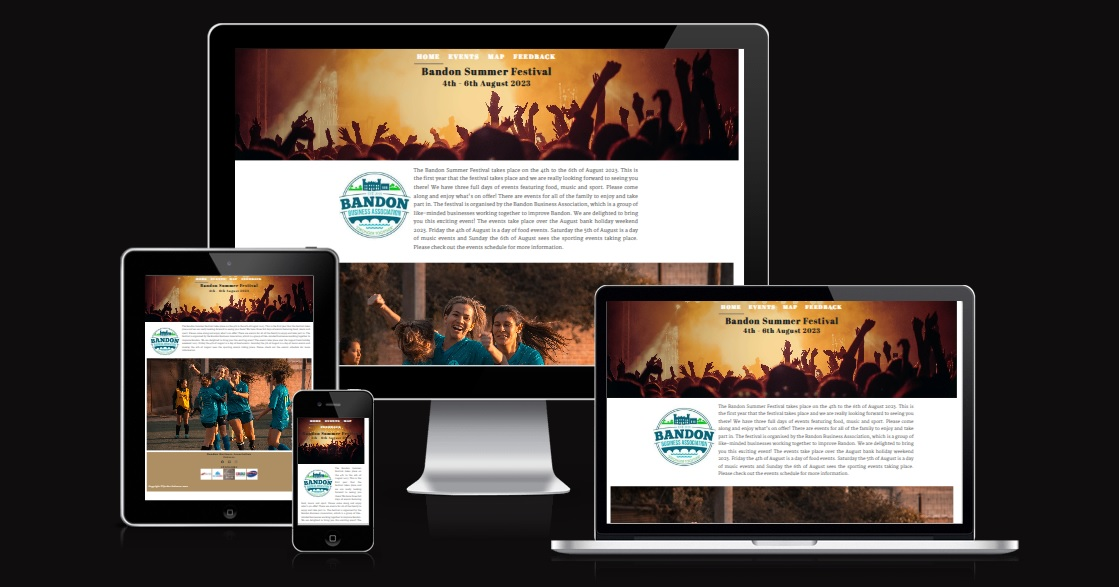
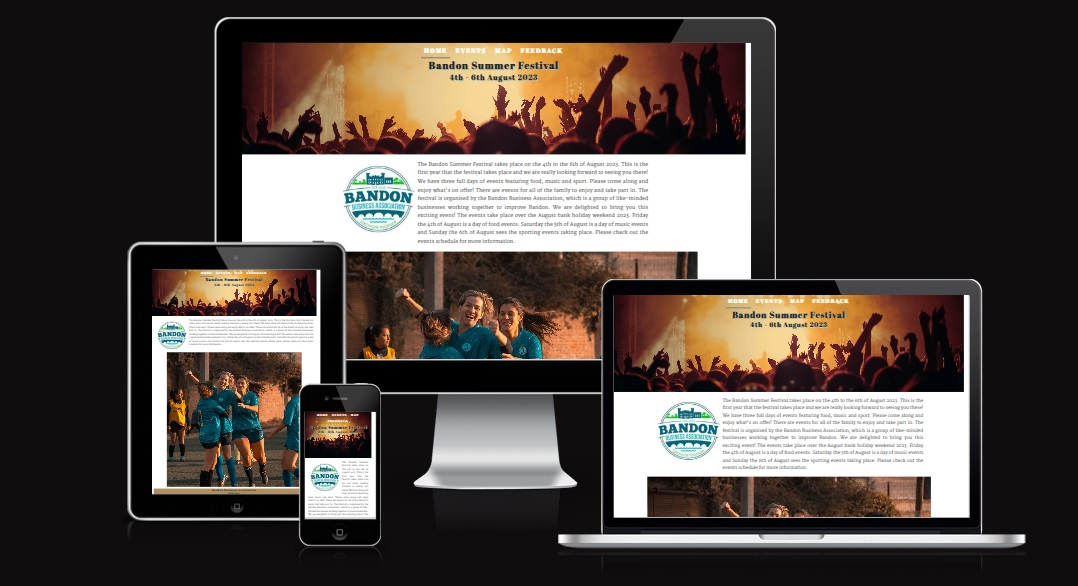
Browser, mobile and updated responsive design screenshots added

diff --git a/README.md b/README.md
@@ -83,9 +83,30 @@ The feedback page provides a facility to give feedback about the festival.
 <!--- Outline my testing -->
 # Testing
 
-- I tested that my website works in different browsers: Google Chrome, Microsoft Edge and Mozilla Firefox. I had to make some adjustments to my screen widths after this testing was completed.
+- I tested that my website works in different browsers: Google Chrome, Microsoft Edge and Mozilla Firefox, see below. I had to make some adjustments to my screen widths after this testing was completed.
 
-- I tested and confirmed that my website is responsive on different screen sizes using Chrome DevTools. I designed my website on a Laptop, therefore I did a lot of testing on smaller screens. When I tested it on a Desktop screen I had to make some adjustments to my section heights to make sure it works okay on larger screens.
+<!--- Google Chrome, Microsoft Edge and Mozilla Firefox screenshots -->
+Google Chrome
+<p align="center">
+  <img src="./assets/images/chrome.jpg"/>  
+</p>
+
+Microsoft Edge
+<p align="center">
+  <img src="./assets/images/edge.jpg"/>  
+</p>
+
+Mozilla Firefox
+<p align="center">
+  <img src="./assets/images/firefox.jpg"/>
+</p>
+
+- I tested and confirmed that my website is responsive on different screen sizes using Chrome DevTools. I designed my website on a Laptop, therefore I did a lot of testing on smaller screens. When I tested it on a Desktop screen I had to make some adjustments to my section heights to make sure it works okay on larger screens. I also tested the website on my mobile phone, see below.
+
+Samsung Galaxy A22 5G
+<p align="center">
+  <img src="./assets/images/samsung.jpg"/>
+</p>
 
 - I tested and confirmed that my navigation menu, home, events, map and feedback pages are all readable and have a good contrast between the background and foreground colours. I adjusted the colour of my page footer to resemble the page header for consistency purposes using image color picker. I also used two main fonts: one primary, Abril Fatface and one secondary, Martel. I discovered this font pairing on fontjoy.com.    
 
